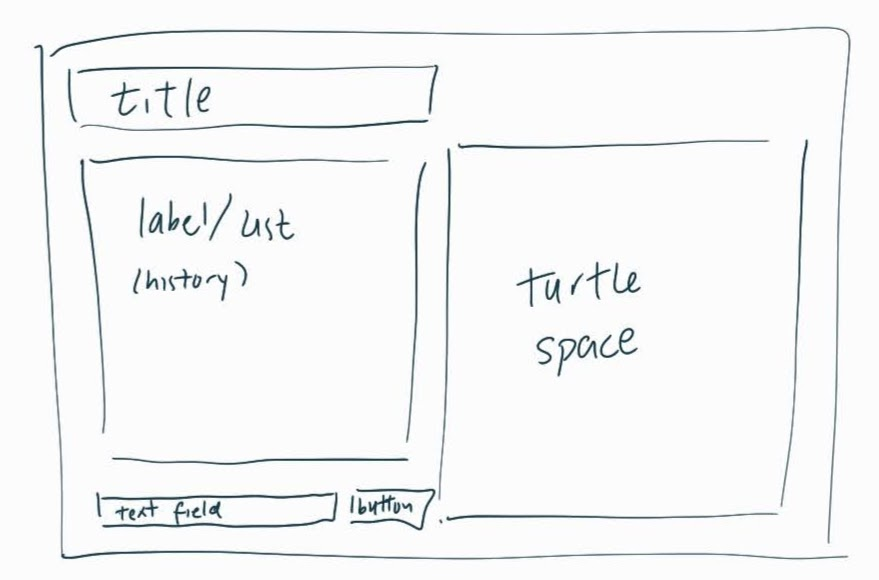
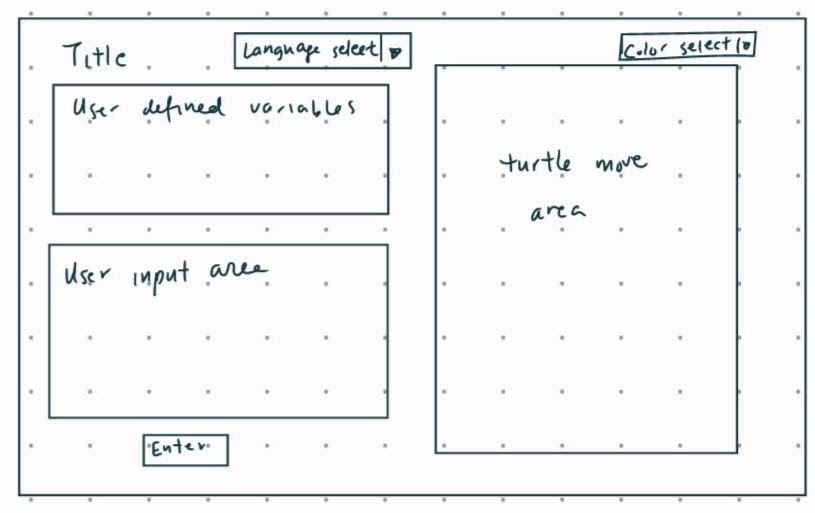
Added usecase and wireframe.

diff --git a/doc/plan/usecases/ColorChangeUI.java b/doc/plan/usecases/ColorChangeUI.java
@@ -1,0 +1,5 @@
+/**
+ * The user sets the pen's color using the UI so subsequent lines drawn when the turtle moves use that color.
+ */
+// On dropdown selection, the following method is called with the appropriate color codes.
+ FrontEndExternal.changePenColor(int r, int g, int b);
